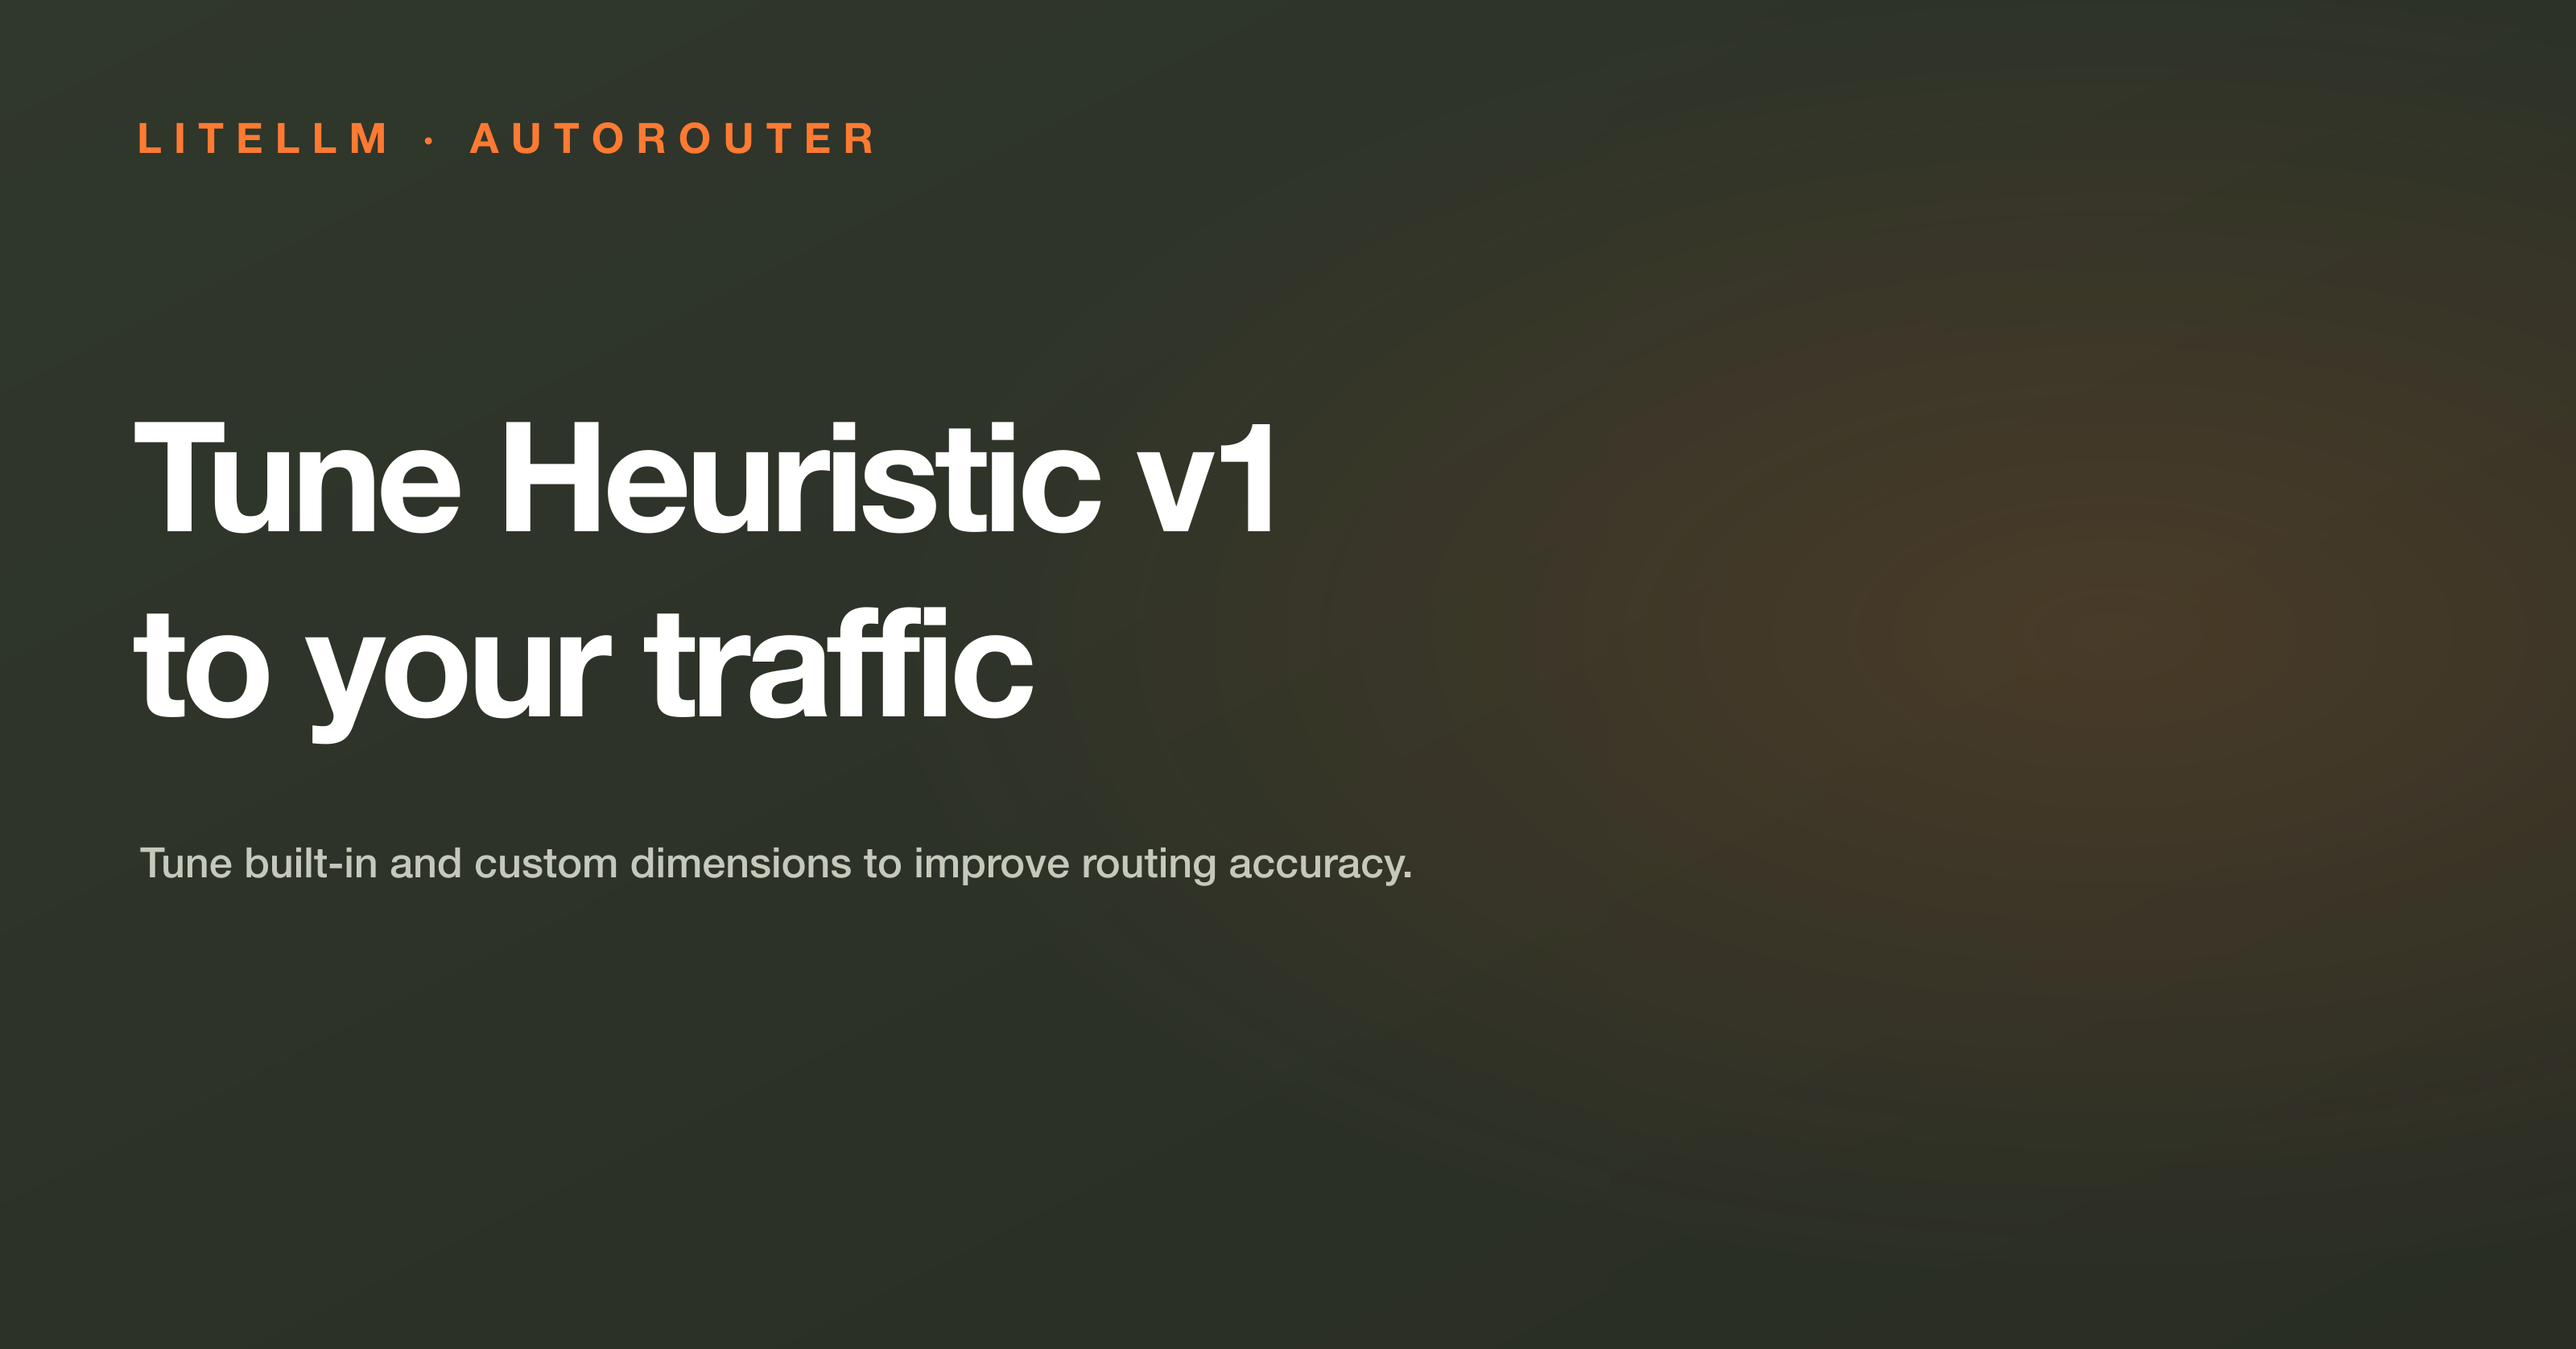
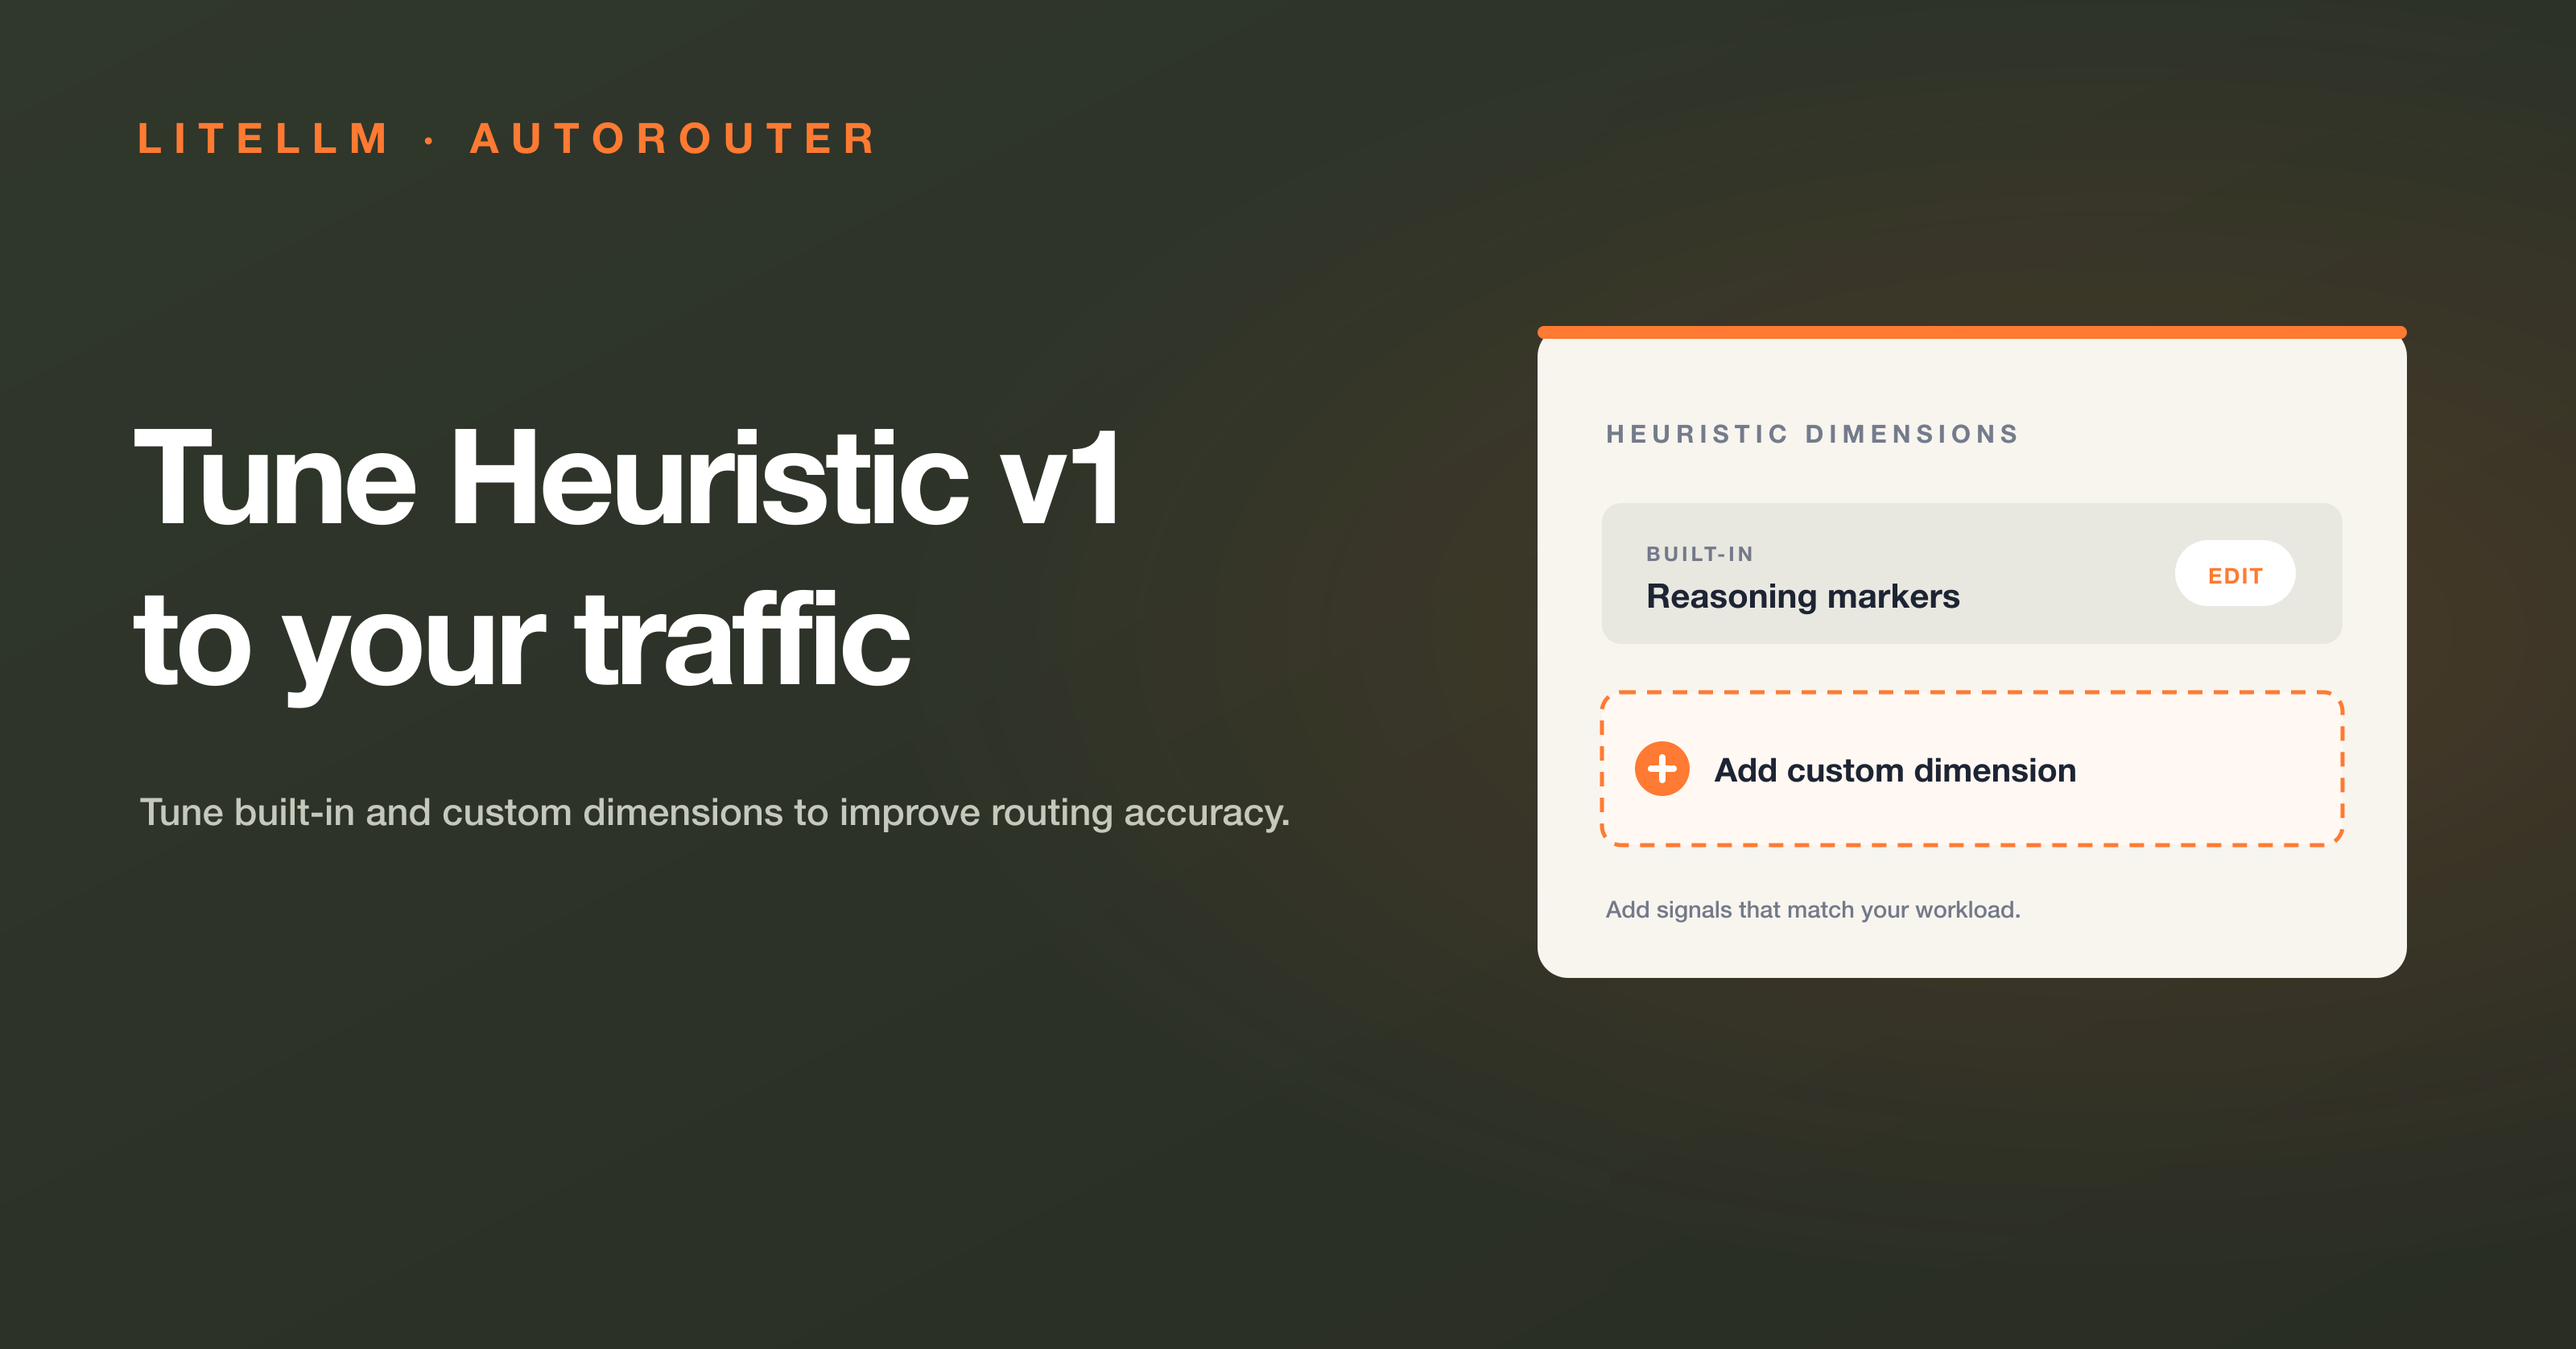
docs(auto-router): highlight dimension editing and auto-configure

diff --git a/blog/autorouter_heuristic_v1_tuning/index.md b/blog/autorouter_heuristic_v1_tuning/index.md
@@ -61,6 +61,19 @@ For a useful comparison:
 
 The [shadow evaluation workflow](/docs/auto_router/evaluate) tests a candidate on sampled production traffic without changing the response your user receives.
 
+## Auto-configure from models you already have
+
+Select **Configure automatically**. LiteLLM checks the models your proxy can access and, using current family presets, picks the best available model for each routing tier.
+
+- Each tier uses a model from your existing deployments.
+- The configuration opens for review before you save it.
+- Anthropic Family uses **Claude Fable 5.1 at high effort** for reasoning traffic.
+- OpenAI Family uses **GPT-6 Astra at xhigh effort** for reasoning traffic.
+
+Deployment names do not need to match the catalog. AutoRouter identifies the provider model behind each deployment.
+
+![Add Auto Router form with the new Configure automatically button](./auto-configure-button.png)
+
 ## See LLM classifier activity per 1,000 turns
 
 You can now separate LLM classifier activity from routed requests:
@@ -68,17 +81,6 @@ You can now separate LLM classifier activity from routed requests:
 - Normalize classifier activity per 1,000 routed turns.
 - Use sessions, turns, and tier distribution to compare routing changes.
 - See how often an LLM classifier runs alongside the traffic it routes.
-
-## Start from current models
-
-The family presets now use current reasoning models:
-
-- Anthropic Family sends reasoning traffic to **Claude Fable 5.1 at high effort**.
-- OpenAI Family sends reasoning traffic to **GPT-6 Astra at xhigh effort**.
-- Presets match the provider model behind each deployment, so deployment names do not need to match the catalog.
-- **Configure automatically** checks the models your proxy serves, fills the tier configuration, and opens it for review.
-
-![Add Auto Router form with the new Configure automatically button](./auto-configure-button.png)
 
 ## More controls for agent traffic
 
